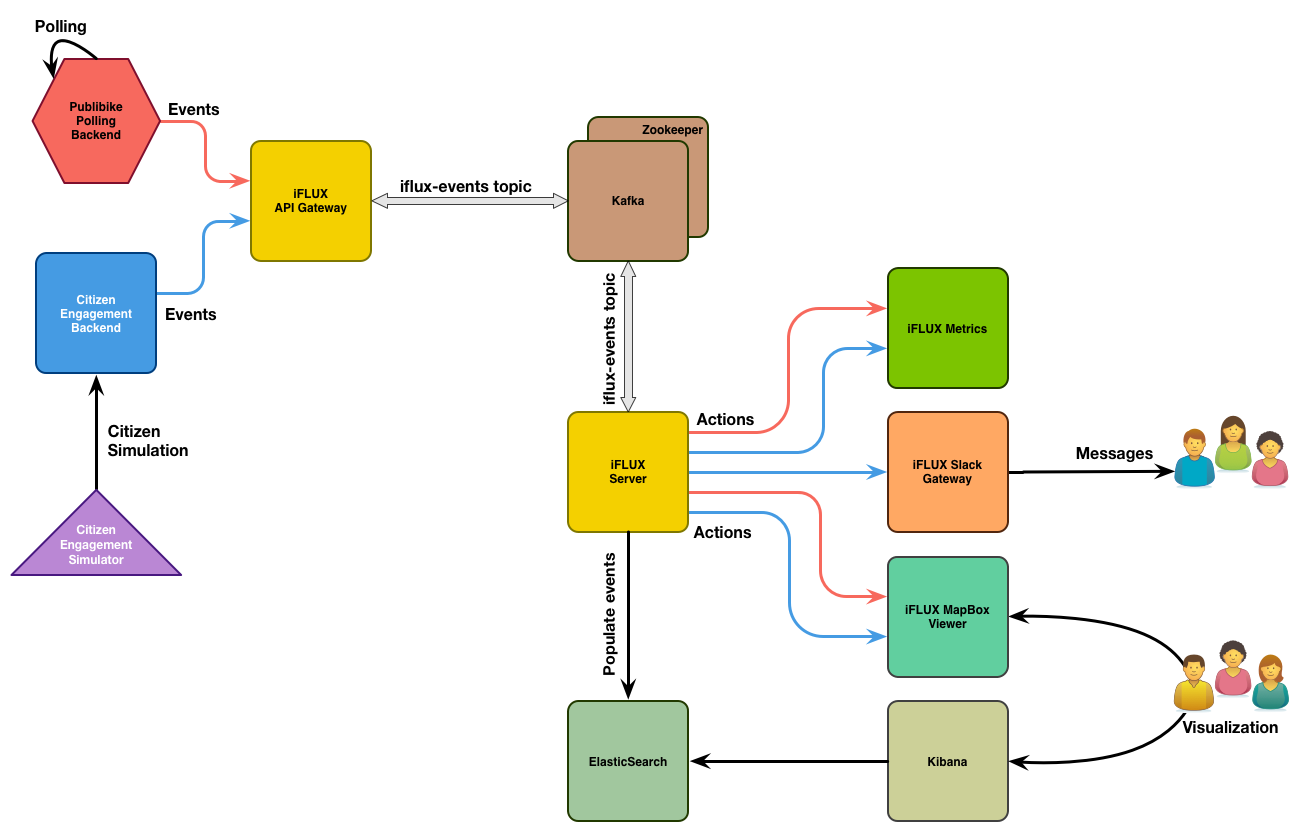
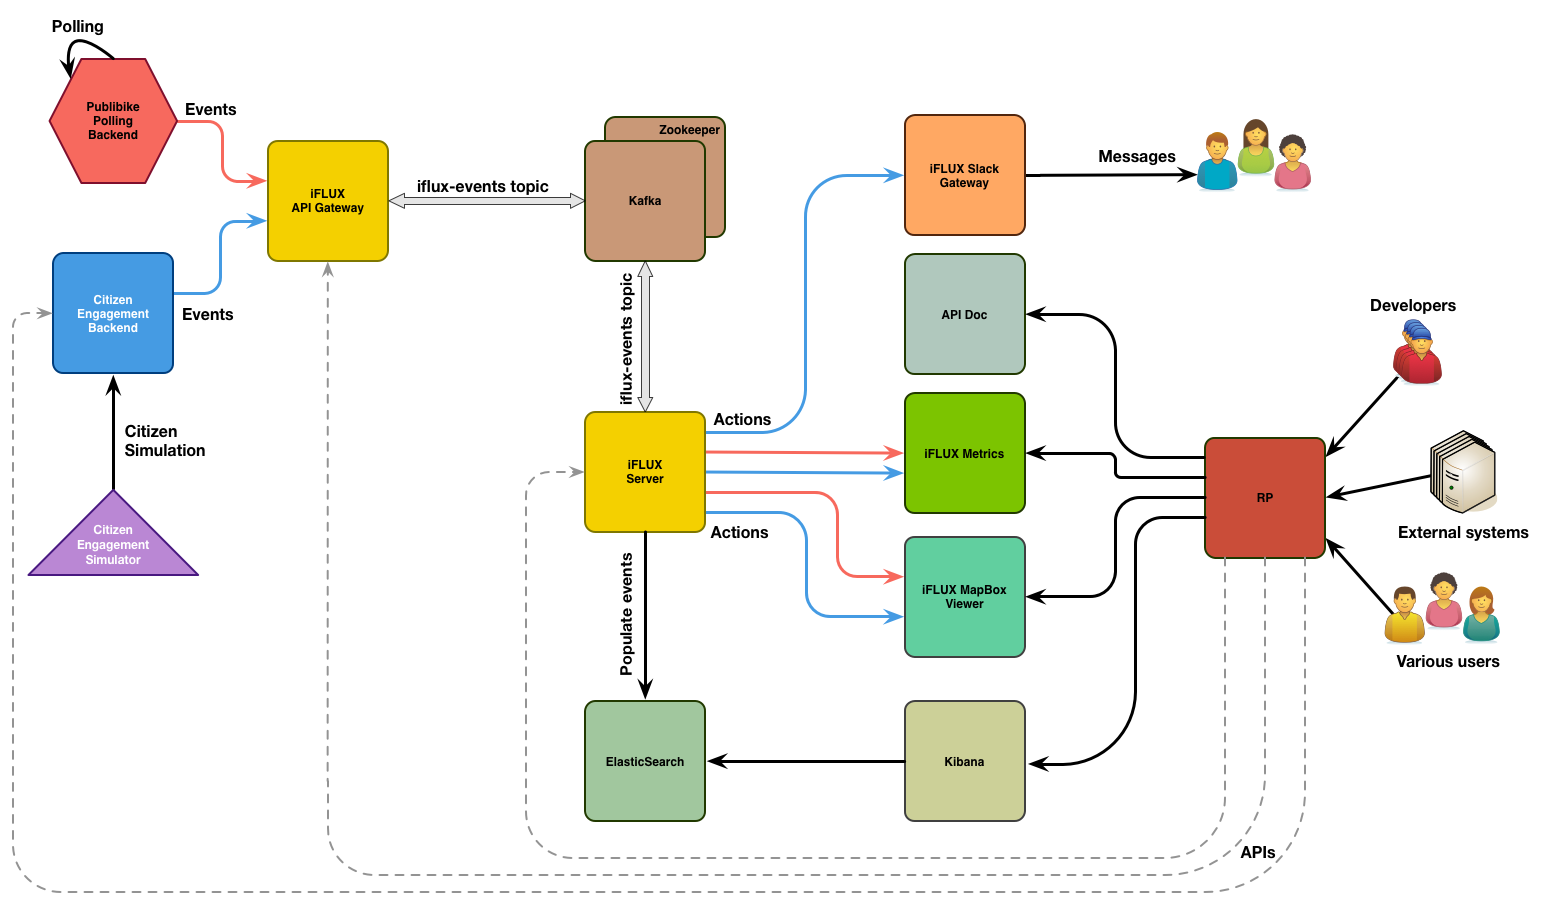
Fixed styling, documentation and added more details about the demo infra

diff --git a/public/css/style.css b/public/css/style.css
@@ -2,10 +2,6 @@
     box-sizing: border-box;
 }
 
-body {
-    overflow: hidden;
-}
-
 h1, p {
     padding: 10px;
 }
@@ -56,17 +52,56 @@ h1, p {
 
 .archi {
     margin-top: -20px;
-    min-height: 100vh;
     display: flex;
     justify-content: center;
     align-content: center;
 }
 
 .archi > img {
-    flex: 0 0 auto;
+    flex: 4 0 auto;
 }
 
-@media(max-width: 1038px) {
+.archi > div {
+    flex: 1 0 auto
+}
+
+.archi > div > .panel {
+    /*margin-top: 20px;*/
+    /*margin-right: 20px;*/
+}
+
+.descr-container {
+    flex-direction: column;
+    margin-right: 10px;
+    max-height: 100vh;
+    max-width: 350px;
+    display: flex;
+}
+
+.descr-item {
+    flex-direction: column;
+    display: flex;
+    flex: 1;
+}
+
+.descr-item-heading {
+    border-bottom: 2px solid darkgray;
+    padding-bottom: 4px;
+    flex: 1;
+}
+
+.descr-item-text {
+    text-align: justify;
+    padding: 0;
+    flex: 1;
+}
+
+
+@media(max-width: 1544px) {
+    .archi {
+        min-height: 100vh !important;
+    }
+
     .archi > img {
         width: 100%;
     }
